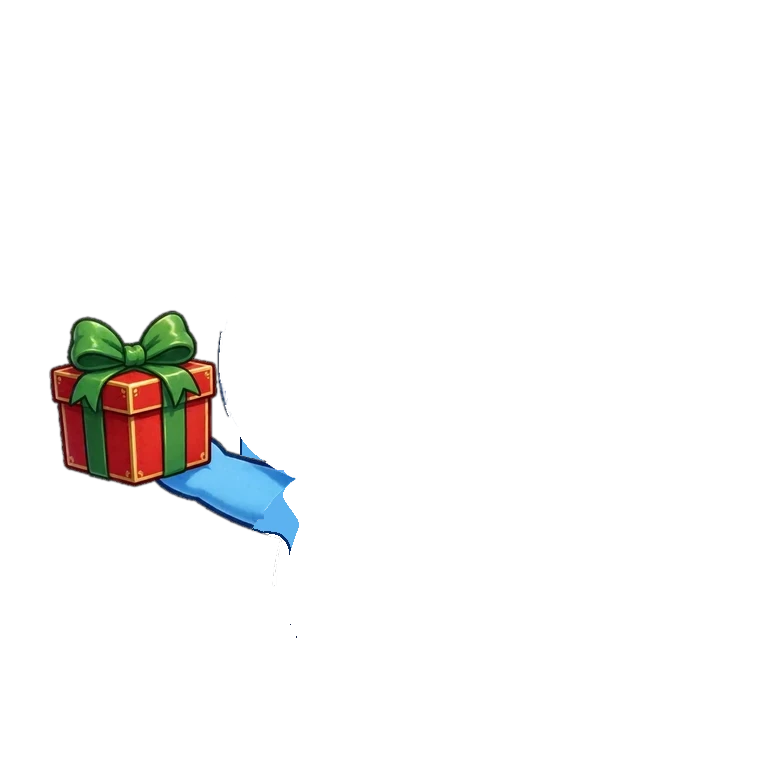
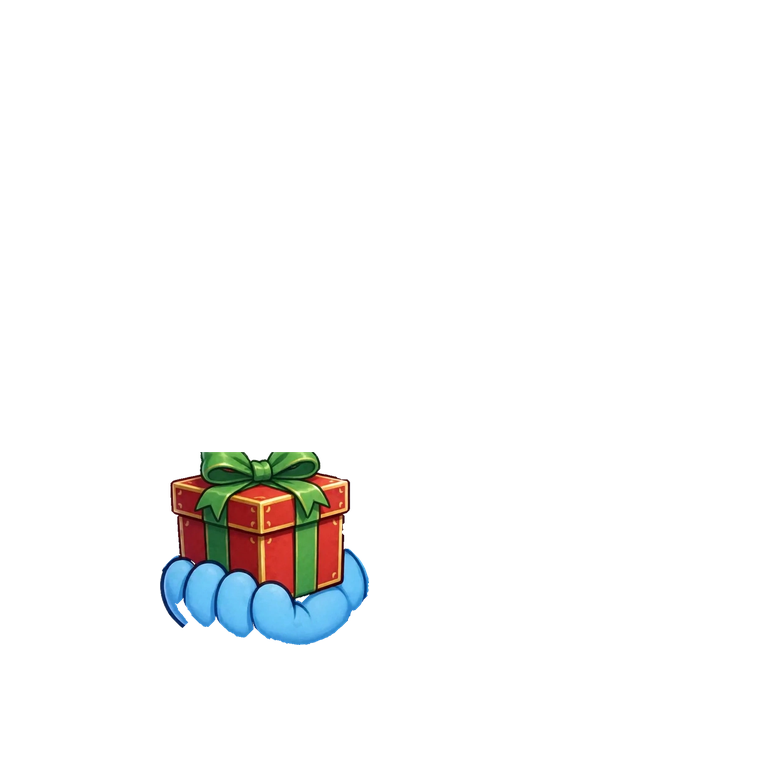
Pi: 13 món Muse vẽ riêng đạt (11 cầm tay/găng + 2 đeo lưng); sửa thân cụt đầu tay giữ viền hông thân
Đạt: hộp quà giangsinh-nam-pk07, găng len xám muadong-nam-pk05, ván trượt muadong-nam-pk10, ván lướt muahe-nam-pk07,
bánh gừng giangsinh-nu-pk09, đũa sao halloween-nu-pk06, táo độc halloween-nu-pk08, kẹo bông halloween-nu-pk09 (mở bán lại),
túi sưởi gấu muadong-nu-pk07, bánh thỏ trungthu-nu-pk03, quạt trăng trungthu-nu-pk05, phao kỳ lân muahe-nu-pk11, lụa chị Hằng trungthu-nu-pk11.
Chưa đạt (giữ bản cũ, chờ vẽ lại): muadong-nam-pk09, muahe-nam-pk09, tet-nam-pk05/06/10, trungthu-nam-pk07, giangsinh-nu-pk08, muadong-nu-pk09, muahe-nu-pk08.
Thân cụt đầu tay: dưới y=560 lấy từ thân cụt cả tay (giữ viền hông), trước xoá trơn làm hông thân cụt thẳng.
fit_check: găng không xét thừa tay. npm test 258 đạt.

Claude-Session: https://claude.ai/code/session_0163KSZYdzHDud2uG42gs7mp

Changed region(s): [[0.0625, 0.4062, 0.5, 0.8438]]

diff --git a/scripts/pi/build.py b/scripts/pi/build.py
@@ -98,15 +98,19 @@ TIP_Y = 560
 ARM_PIX = {side: (body_noleaf[..., 3] > 40) & (ARMLESS[side][..., 3] <= 40) for side in ("trai", "phai")}
 _yy = np.mgrid[0:body_noleaf.shape[0], 0:body_noleaf.shape[1]][0]
 TIP = {side: ARM_PIX[side] & (_yy * 768 // body_noleaf.shape[0] >= TIP_Y) for side in ("trai", "phai")}
+_xx = np.mgrid[0:body_noleaf.shape[0], 0:body_noleaf.shape[1]][1]
 for side in ("trai", "phai"):
-    _cut = body_noleaf.copy(); _cut[TIP[side], 3] = 0
+    # 26/10: dưới y=TIP_Y lấy từ thân cụt cả tay (ARMLESS — giữ viền hông thân), không xoá trơn (xoá trơn làm hông thân cụt thẳng, mất viền)
+    _half = (_xx < body_noleaf.shape[1] // 2) if side == "trai" else (_xx >= body_noleaf.shape[1] // 2)
+    _low = (_yy * 768 // body_noleaf.shape[0] >= TIP_Y) & _half
+    _cut = body_noleaf.copy(); _cut[_low] = ARMLESS[side][_low]
     total += put(f"body/pi_than_khong_tay_dau{side}.webp", im=Image.fromarray(_cut), q=88)
 # món vẽ cánh tay riêng (giơ lên / bưng ra trước) KHÔNG đè tay gốc → dùng thân bỏ tay bên đó. Soát mắt 24/10 từng món ứng viên
 # (da xanh ngoài thân ≥ 1000px, phủ vùng tay gốc < 40%); món không vẽ bàn tay (đũa phép, xẻng, chong chóng) giữ tay gốc.
 # 24/10 soát từng món: vệt lá cũ sót xa gốc lá (vùng rộng; KHÔNG áp chung vì vòng hoa có lá thật)
 # 24/10 tối (chủ dự án chốt): món Muse vẽ RIÊNG trên nền trong suốt → chỉ đặt đè lên, KHÔNG chạy bộ cắt lá / vụn (cắt nhầm mũ xanh lá)
 STANDALONE = {  # 25/10: món vẽ riêng đã duyệt ghép
-              "giangsinh-nam-dau01", "giangsinh-nam-dau02", "giangsinh-nam-dau03", "giangsinh-nam-dau04", "giangsinh-nam-dau05", "giangsinh-nam-pk03", "giangsinh-nam-pk12", "giangsinh-nu-dau01", "giangsinh-nu-dau02", "giangsinh-nu-dau04", "giangsinh-nu-pk03", "halloween-nam-dau01", "halloween-nam-dau02", "halloween-nam-dau05", "halloween-nam-pk04", "halloween-nu-dau01", "muadong-nam-dau01", "muadong-nam-dau02", "muadong-nam-dau03", "muadong-nam-dau05", "muadong-nam-pk01", "muadong-nam-pk02", "muadong-nam-pk11", "muadong-nu-dau01", "muadong-nu-dau03", "muadong-nu-dau04", "muadong-nu-pk01", "muadong-nu-pk02", "muahe-nam-dau01", "muahe-nam-dau02", "muahe-nam-dau03", "muahe-nam-dau04", "muahe-nam-pk12", "muahe-nu-dau01", "muahe-nu-dau02", "muahe-nu-dau04", "tet-nam-dau01", "tet-nam-dau02", "tet-nam-dau03", "tet-nam-dau04", "tet-nam-pk03", "tet-nam-pk11", "tet-nu-dau01", "tet-nu-dau02", "tet-nu-dau03", "tet-nu-dau05", "tet-nu-pk04", "tet-nu-pk11", "trungthu-nam-dau01", "trungthu-nam-dau02", "trungthu-nam-dau03", "trungthu-nam-dau04", "trungthu-nam-dau05", "trungthu-nam-pk09", "trungthu-nam-pk10", "trungthu-nam-pk11", "trungthu-nu-dau02", "trungthu-nu-dau05", "trungthu-nu-pk10", "giangsinh-nam-giay01", "muahe-nu-giay02", "giangsinh-nam-giay02", "giangsinh-nam-giay03", "giangsinh-nu-giay01", "giangsinh-nu-giay02", "giangsinh-nu-giay03", "halloween-nam-giay02", "halloween-nam-giay03", "halloween-nu-giay01", "halloween-nu-giay03", "muadong-nam-giay01", "muadong-nam-giay02", "muadong-nam-giay03", "muadong-nu-giay01", "muadong-nu-giay03", "muahe-nam-giay01", "muahe-nam-giay02", "muahe-nu-giay01", "muahe-nu-giay03", "tet-nam-giay01", "tet-nam-giay03", "tet-nu-giay01", "tet-nu-giay02", "tet-nu-giay03", "trungthu-nam-giay01", "trungthu-nam-giay02", "trungthu-nam-giay03", "trungthu-nu-giay01", "trungthu-nu-giay02", "trungthu-nu-giay03", "muahe-nam-giay03", "halloween-nam-giay01", "tet-nam-giay02", "halloween-nu-giay02", "muadong-nu-giay02", "muahe-nam-pk05", "halloween-nu-pk09"}
+              "giangsinh-nam-dau01", "giangsinh-nam-dau02", "giangsinh-nam-dau03", "giangsinh-nam-dau04", "giangsinh-nam-dau05", "giangsinh-nam-pk03", "giangsinh-nam-pk12", "giangsinh-nu-dau01", "giangsinh-nu-dau02", "giangsinh-nu-dau04", "giangsinh-nu-pk03", "halloween-nam-dau01", "halloween-nam-dau02", "halloween-nam-dau05", "halloween-nam-pk04", "halloween-nu-dau01", "muadong-nam-dau01", "muadong-nam-dau02", "muadong-nam-dau03", "muadong-nam-dau05", "muadong-nam-pk01", "muadong-nam-pk02", "muadong-nam-pk11", "muadong-nu-dau01", "muadong-nu-dau03", "muadong-nu-dau04", "muadong-nu-pk01", "muadong-nu-pk02", "muahe-nam-dau01", "muahe-nam-dau02", "muahe-nam-dau03", "muahe-nam-dau04", "muahe-nam-pk12", "muahe-nu-dau01", "muahe-nu-dau02", "muahe-nu-dau04", "tet-nam-dau01", "tet-nam-dau02", "tet-nam-dau03", "tet-nam-dau04", "tet-nam-pk03", "tet-nam-pk11", "tet-nu-dau01", "tet-nu-dau02", "tet-nu-dau03", "tet-nu-dau05", "tet-nu-pk04", "tet-nu-pk11", "trungthu-nam-dau01", "trungthu-nam-dau02", "trungthu-nam-dau03", "trungthu-nam-dau04", "trungthu-nam-dau05", "trungthu-nam-pk09", "trungthu-nam-pk10", "trungthu-nam-pk11", "trungthu-nu-dau02", "trungthu-nu-dau05", "trungthu-nu-pk10", "giangsinh-nam-giay01", "muahe-nu-giay02", "giangsinh-nam-giay02", "giangsinh-nam-giay03", "giangsinh-nu-giay01", "giangsinh-nu-giay02", "giangsinh-nu-giay03", "halloween-nam-giay02", "halloween-nam-giay03", "halloween-nu-giay01", "halloween-nu-giay03", "muadong-nam-giay01", "muadong-nam-giay02", "muadong-nam-giay03", "muadong-nu-giay01", "muadong-nu-giay03", "muahe-nam-giay01", "muahe-nam-giay02", "muahe-nu-giay01", "muahe-nu-giay03", "tet-nam-giay01", "tet-nam-giay03", "tet-nu-giay01", "tet-nu-giay02", "tet-nu-giay03", "trungthu-nam-giay01", "trungthu-nam-giay02", "trungthu-nam-giay03", "trungthu-nu-giay01", "trungthu-nu-giay02", "trungthu-nu-giay03", "muahe-nam-giay03", "halloween-nam-giay01", "tet-nam-giay02", "halloween-nu-giay02", "muadong-nu-giay02", "muahe-nam-pk05", "halloween-nu-pk09", "giangsinh-nam-pk07", "muadong-nam-pk05", "muadong-nam-pk10", "muahe-nam-pk07", "giangsinh-nu-pk09", "halloween-nu-pk06", "halloween-nu-pk08", "muadong-nu-pk07", "muahe-nu-pk11", "trungthu-nu-pk03", "trungthu-nu-pk05", "trungthu-nu-pk11"}
 SHOE_SCALE = {}  # 25/10: guốc tet-nu-giay02 vẽ lại đúng cỡ
 LEAF_WIDE = {"giangsinh-nam-dau05", "trungthu-nam-dau03", "muahe-nam-dau05", "trungthu-nu-dau02"}
 ARM_HIDE = {"giangsinh-nam-pk07": "trai", "muadong-nam-pk08": "trai", "muadong-nu-pk08": "trai", "muahe-nam-pk05": "trai",

diff --git a/scripts/pi/fit_check.py b/scripts/pi/fit_check.py
@@ -185,7 +185,7 @@ def tip_cover(it):
     c = (edge & a).sum() / edge.sum()
     return [] if c >= 0.95 else [f"bàn tay vẽ không che kín chỗ cắt đầu tay ({c:.0%} < 95%) — thừa tay / hở tay"]
 def extra_hand(it):  # món vẽ riêng có bàn tay xanh mà thân giữ nguyên tay → 2 tay
-    if it["slot"] not in ("tay", "gang") or it.get("arm"): return []
+    if it["slot"] != "tay" or it.get("arm"): return []  # găng trùm đầu tay gốc → không xét
     a = rd(it["file"]); sk = (a[..., 3] > 128) & blue_mask(a[..., :3])
     return [f"có bàn tay vẽ ({int(sk.sum())}px) nhưng không nằm ở đầu tay buông → thừa tay"] if it["id"] in _SA and sk.sum() > 600 else []
 res = {}
